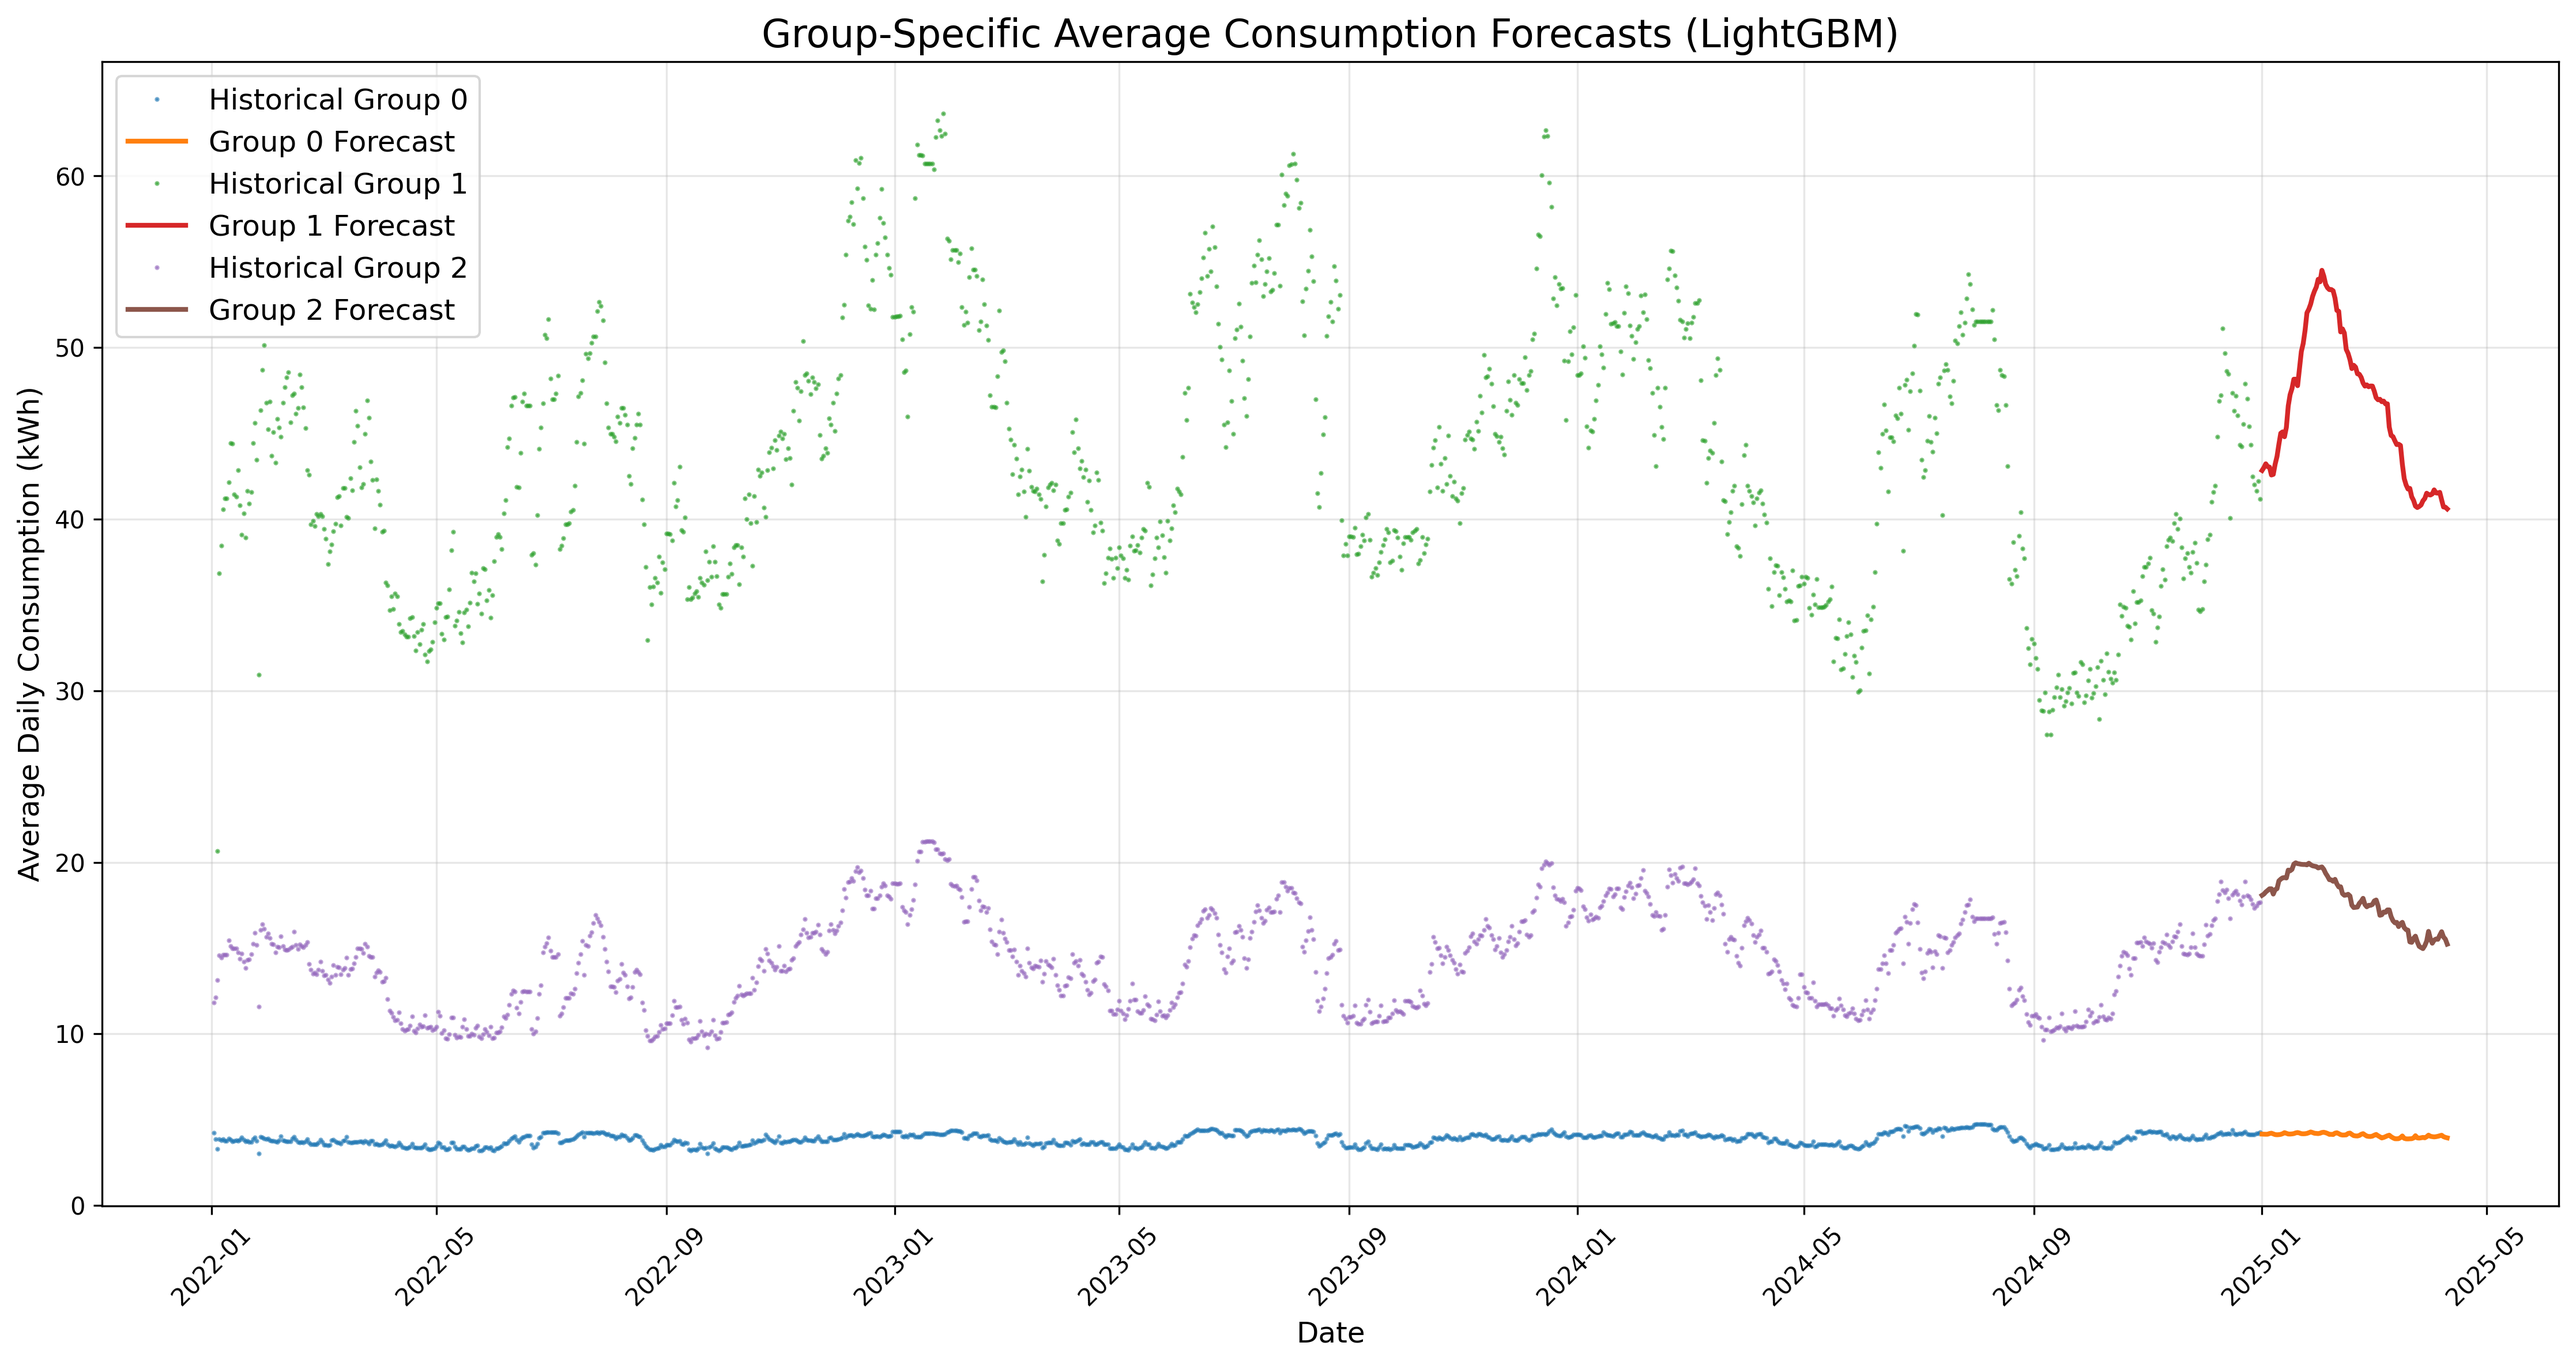
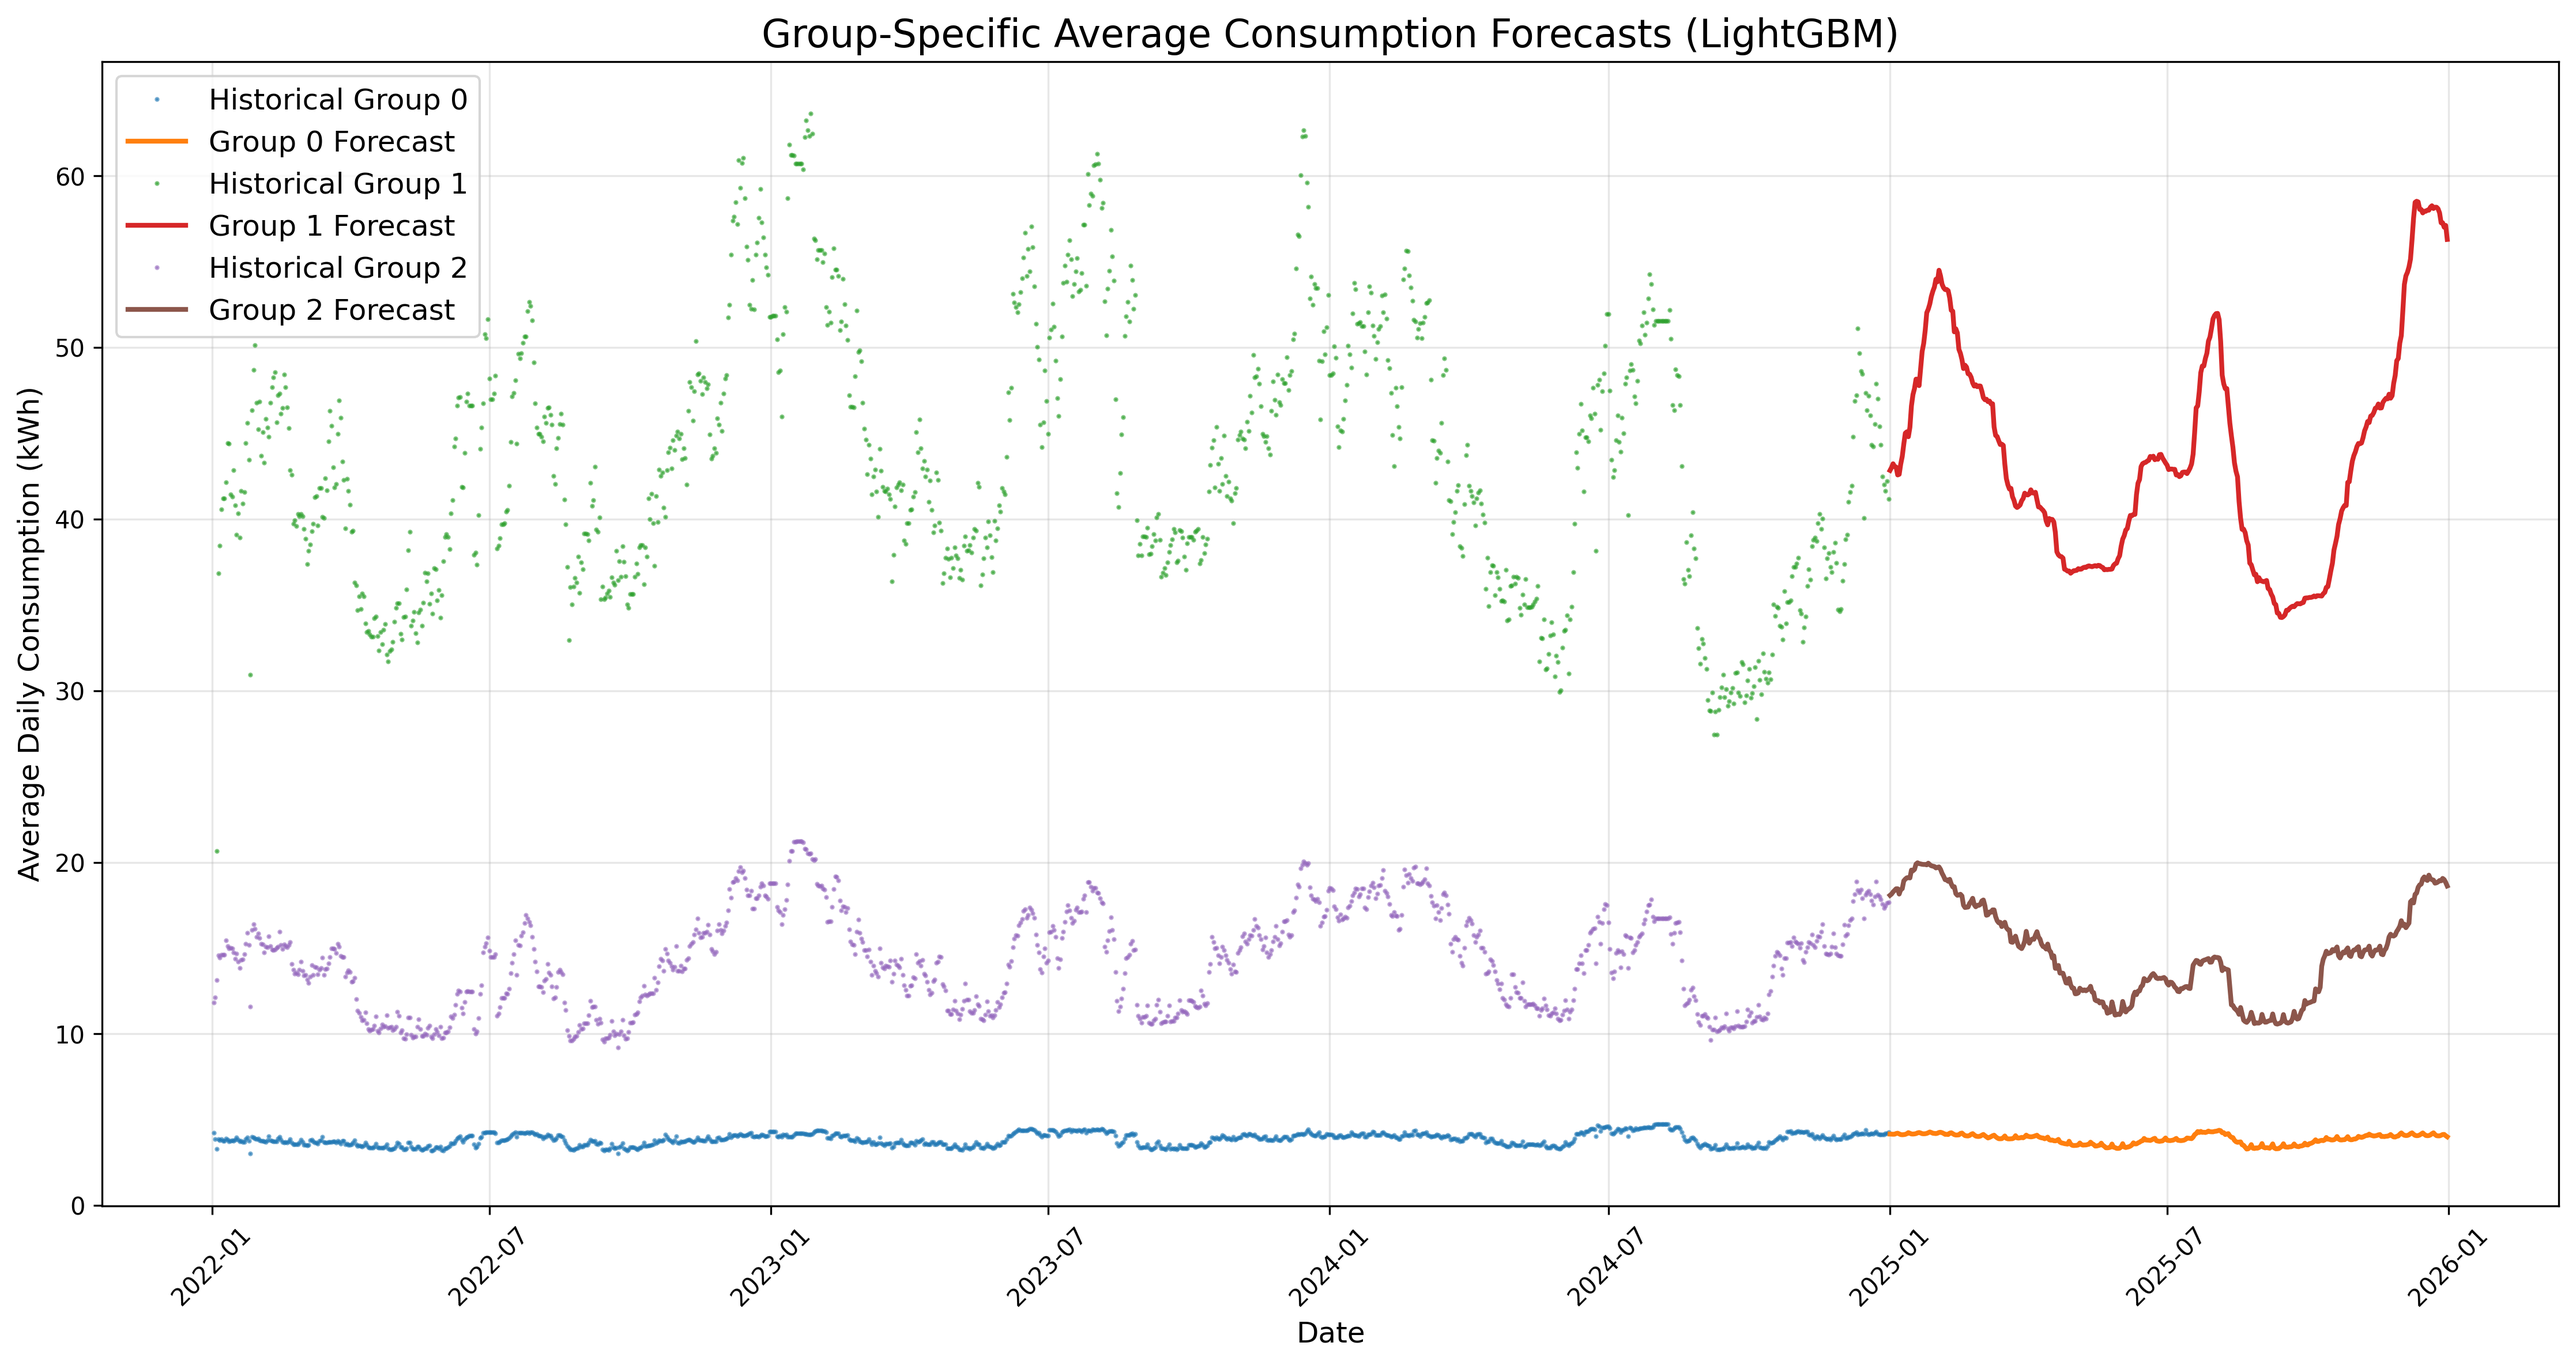
fix: stabilize 2025 forecasts and improve seasonality handling
- Updated rolling statistics after each day's prediction
- Switched to a separate model for avg_temp forecasts
- Fixed issue where last-known feature values prevented seasonality capture
- Electricity Consumption Predictor pipeline is now production-ready

diff --git a/lightgbm_system_forecast.py b/lightgbm_system_forecast.py
@@ -235,7 +235,7 @@ def train_lightgbm_model(data, test_size=0.2, params=None):
             num_boost_round=2000,
             callbacks=[
                 lgb.early_stopping(stopping_rounds=50),
-                lgb.log_evaluation(period=100)
+                lgb.log_evaluation(period=365)
             ]
         )
         
@@ -269,7 +269,7 @@ def train_lightgbm_model(data, test_size=0.2, params=None):
         logging.error(f"Failed to train LightGBM model: {e}")
         raise
 
-def forecast_system_future(model, data, features, periods=100):  # Increased periods to 100 for consistency
+def forecast_system_future(model, data, features, periods=365):
     """Forecast future system-wide consumption for the specified periods."""
     logging.info(f"Forecasting next {periods} days (system-wide)...")
     
@@ -334,7 +334,7 @@ def forecast_system_future(model, data, features, periods=100):  # Increased per
         logging.error(f"Failed to forecast system-wide: {e}")
         raise
 
-def forecast_consumer_future(model, data, features, valid_consumers, periods=100):  # Increased periods to 100
+def forecast_consumer_future(model, data, features, valid_consumers, periods=365):
     """Forecast future consumption for each consumer."""
     logging.info(f"Forecasting next {periods} days (consumer-specific)...")
     
@@ -427,7 +427,7 @@ def forecast_consumer_future(model, data, features, valid_consumers, periods=100
         logging.error(f"Failed to forecast consumer-specific: {e}")
         raise
 
-def forecast_group_future(model, data, features, group_id, periods=100):  # Increased periods to 100
+def forecast_group_future(model, data, features, group_id, periods=365):
     """Forecast future average consumption for a specific group."""
     logging.info(f"Forecasting next {periods} days for group {group_id}...")
     
@@ -691,23 +691,23 @@ def main():
 
     # Step 8: Forecast future consumption
     logging.info("Step 8: Forecasting future consumption (system-wide)...")
-    system_forecast_df = forecast_system_future(system_model, system_wide_data, system_features, periods=100)
+    system_forecast_df = forecast_system_future(system_model, system_wide_data, system_features, periods=365)
     
     logging.info("Step 8: Forecasting future consumption (consumer-specific)...")
-    consumer_forecast_df = forecast_consumer_future(consumer_model, consumer_specific_data, consumer_features, valid_consumers, periods=100)
+    consumer_forecast_df = forecast_consumer_future(consumer_model, consumer_specific_data, consumer_features, valid_consumers, periods=365)
 
     group_forecasts = {}
     for group_id, g_model in group_models.items():
         logging.info(f"Step 8: Forecasting future consumption for group {group_id}...")
-        group_forecasts[group_id] = forecast_group_future(g_model, group_data[group_id], group_features[group_id], group_id, periods=100)
+        group_forecasts[group_id] = forecast_group_future(g_model, group_data[group_id], group_features[group_id], group_id, periods=365)
 
     # Step 9: Validate outputs
     logging.info("Step 9: Validating output forecasts...")
     try:
         assert consumer_forecast_df['consumer_id'].nunique() == len(valid_consumers), \
             f"Expected {len(valid_consumers)} consumers, got {consumer_forecast_df['consumer_id'].nunique()}"
-        assert consumer_forecast_df.shape[0] == len(valid_consumers) * 100, \
-            f"Expected {len(valid_consumers) * 100} rows, got {consumer_forecast_df.shape[0]}"
+        assert consumer_forecast_df.shape[0] == len(valid_consumers) * 365, \
+            f"Expected {len(valid_consumers) * 365} rows, got {consumer_forecast_df.shape[0]}"
         if (consumer_forecast_df['yhat'] < 0).any():
             logging.warning(f"Negative predictions in consumer forecast: {consumer_forecast_df[consumer_forecast_df['yhat'] < 0]['yhat'].values}")
             consumer_forecast_df['yhat'] = consumer_forecast_df['yhat'].clip(lower=0)

diff --git a/README.md b/README.md
@@ -89,9 +89,9 @@ Each includes: **rmse, mae, mae/median ratio, features, data points, date range,
 ---
 
 ## 🧩 Features Used
-- **Weather**: `avg_temp` (filled with median if missing).  
+- **Weather**: `avg_temp` (made a separate model to predict future temp).  
 - **Date**: `year, month, day_of_week, day_of_year, week_of_year`.  
-- **Rolling stats**: `rolling_mean_7, rolling_mean_14, rolling_mean_30`.  
+- **Rolling stats**: `rolling_mean_7, rolling_mean_14, rolling_mean_30` (rolling stats updated after each day's prediction - iterative update).  
 - **IDs**: `consumer_id, group`.  
 
 ---
@@ -154,7 +154,7 @@ python forecast_consumption.py
 - **Data Size**:  
   - Input: ~9.4M readings, 11,357 consumers  
   - Processed: ~12.3M daily rows  
-- **Runtime**: ~31 min for 100 days (consumer-level training = bottleneck)  
+- **Runtime**: ~31 mins for 100 days, ~50 mins for one year (consumer-level training = bottleneck)  
 - **Latest Run (2025-08-27)**:  
   - System-wide: RMSE = 0.27, MAE = 0.21 (3.2% error)  
   - Consumer: RMSE = 2.59, MAE = 1.33 (33.2% error)  
